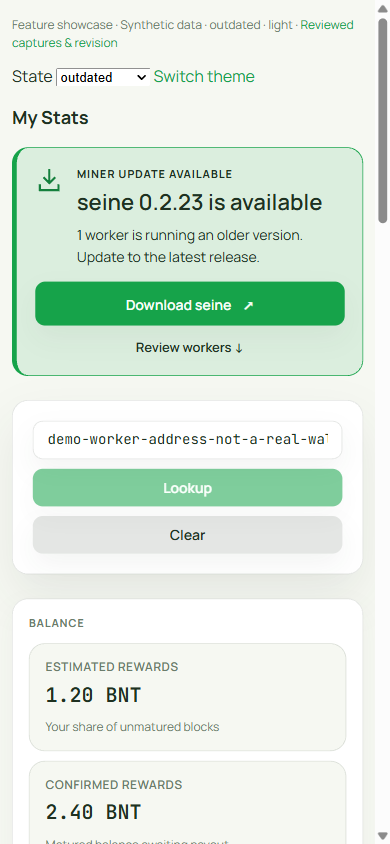
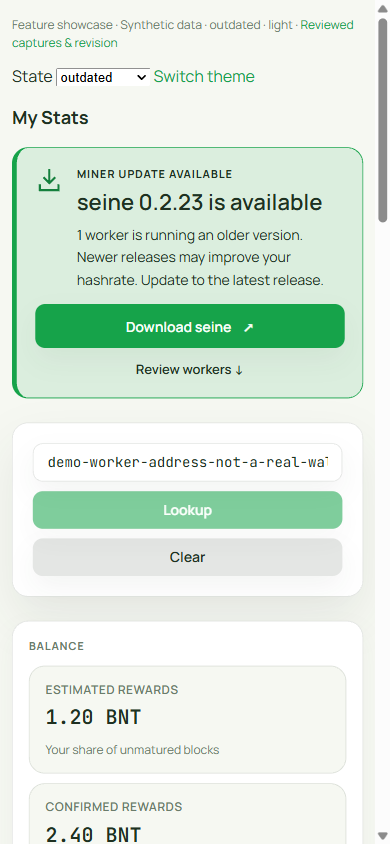
Replace worker update badges with version details and hashrate nudge

diff --git a/frontend/showcases/seine-update/captures.html b/frontend/showcases/seine-update/captures.html
@@ -1,8 +1,8 @@
 <!doctype html><html lang="en"><meta charset="utf-8"><meta name="viewport" content="width=device-width,initial-scale=1"><title>Seine update banner — reviewed captures</title>
 <style>body{font:16px/1.6 system-ui;margin:32px auto;padding:0 20px;max-width:1180px;background:#f6f8f2;color:#1f3121}h1{line-height:1.2}a{color:#15803d}code{overflow-wrap:anywhere}section{margin:40px 0}.pair{display:grid;grid-template-columns:minmax(0,3fr) minmax(0,1fr);gap:20px;align-items:start}img{width:100%;border:1px solid #cad8c8;border-radius:12px}pre{white-space:pre-wrap;background:#fff;padding:16px;border-radius:12px}@media(max-width:640px){.pair{grid-template-columns:1fr}.pair a:last-child{max-width:390px}}</style>
-<h1>Seine update banner</h1><p>A prominent notice at the top of My Stats, with the available release, affected worker counts, a download link and a shortcut to the worker list.</p>
+<h1>Seine update banner</h1><p>A prominent notice at the top of My Stats, with the available release, affected worker counts, a download link and a shortcut to the worker list. Newer releases may improve your hashrate. Old update badges are removed; the worker table shows reported miner versions.</p>
 <p>Real StatsPage rendered with synthetic API responses. Desktop: 1440 × 1000. Mobile: 390 × 844. Captured and visually reviewed October 25, 2026 (EDT) through the configured Windows Playwright MCP.</p>
-<p>Source: base <code>3ebfb91</code> plus the exact <a href="source-revision.json">source SHA-256 manifest</a>. The sample version is fixture data, not a release announcement.</p>
+<p>Source: base <code>bbdda90</code> plus the exact <a href="source-revision.json">source SHA-256 manifest</a>. The sample version is fixture data, not a release announcement.</p>
 <p>Build and all 3 frontend tests passed. Browser checks passed for visibility, counts, no horizontal overflow, download destination, keyboard focus, worker-list navigation and clearing the lookup. No application console errors in the final check. The banner has no independent loading, error or disabled state; those lookup states are shown below.</p>
 <details><summary>Run the interactive fixture from this revision</summary><pre>npm --prefix frontend ci
 npm --prefix frontend run dev -- --host 0.0.0.0 --port 5184

diff --git a/frontend/src/pages/StatsPage.tsx b/frontend/src/pages/StatsPage.tsx
@@ -7,7 +7,6 @@ import { HashrateChart } from '../components/HashrateChart';
 import { PayoutStatusBadge } from '../components/PayoutStatusBadge';
 import { RangeTabs } from '../components/RangeTabs';
 import { StatCard } from '../components/StatCard';
-import { WorkerVersionBadge } from '../components/WorkerVersionBadge';
 import { MinerUpdateBanner } from '../components/MinerUpdateBanner';
 import { LAST_MINER_LOOKUP_KEY } from '../lib/storage';
 import { formatCoins, formatCompactCoins, formatFee, formatPct, humanRate, ratioPct, timeAgo, timestampTitle, toUnixMs } from '../lib/format';
@@ -563,6 +562,7 @@ export function StatsPage({ api, liveTick, theme }: StatsPageProps) {
                   <thead>
                     <tr>
                       <th>Worker</th>
+                      <th>Miner Version</th>
                       <th>Hashrate</th>
                       <th>Accepted</th>
                       <th>Rejected</th>
@@ -571,17 +571,12 @@ export function StatsPage({ api, liveTick, theme }: StatsPageProps) {
                   </thead>
                   <tbody>
                     {!minerData.workers.length ? (
-                      <EmptyTableRow colSpan={5}>No workers</EmptyTableRow>
+                      <EmptyTableRow colSpan={6}>No workers</EmptyTableRow>
                     ) : (
                       minerData.workers.map((w) => (
                         <tr key={w.worker}>
-                          <td>
-                            {w.worker || 'default'}
-                            <WorkerVersionBadge
-                              status={w.version_status}
-                              latestVersion={minerData.latest_miner_version || ''}
-                            />
-                          </td>
+                          <td>{w.worker || 'default'}</td>
+                          <td className="mono">{w.miner_version?.trim() || 'Unknown'}</td>
                           <td>{humanRate(w.hashrate || 0)}</td>
                           <td>{w.accepted || 0}</td>
                           <td>{w.rejected || 0}</td>

diff --git a/frontend/src/components/MinerUpdateBanner.tsx b/frontend/src/components/MinerUpdateBanner.tsx
@@ -1,6 +1,6 @@
 import type { MinerResponse } from '../types';
 
-export const SEINE_RELEASES_URL = 'https://github.com/zpalmtree/seine/releases';
+const SEINE_RELEASES_URL = 'https://github.com/zpalmtree/seine/releases';
 
 export function MinerUpdateBanner({ miner }: { miner: MinerResponse | null }) {
   const version = miner?.latest_miner_version?.trim();
@@ -21,6 +21,7 @@ export function MinerUpdateBanner({ miner }: { miner: MinerResponse | null }) {
         <p>
           {outdated > 0 && `${outdated} ${outdated === 1 ? 'worker is' : 'workers are'} running an older version. `}
           {unknown > 0 && `${unknown} ${unknown === 1 ? 'worker has' : 'workers have'} an unknown version. `}
+          Newer releases may improve your hashrate.{' '}
           {outdated ? 'Update to the latest release.' : 'Check your workers against the latest release.'}
         </p>
       </div>

diff --git a/frontend/showcases/seine-update/showcase.tsx b/frontend/showcases/seine-update/showcase.tsx
@@ -24,7 +24,9 @@ const miner: MinerResponse = {
   latest_miner_version: state === 'no-version' ? '  ' : state === 'long-version' ? '0.2.23-preview.20261025-experimental' : '0.2.23',
   workers: statuses.map((version_status, i) => ({
     worker: `demo-rig-${i + 1}`, version_status, hashrate: 1250, accepted: 12840, rejected: 2,
-    last_share_at: null, miner_version: version_status === 'unknown' ? null : '0.2.22', backend: 'cuda',
+    last_share_at: null,
+    miner_version: version_status === 'unknown' ? null : version_status === 'current' ? '0.2.23' : '0.2.22',
+    backend: 'cuda',
   })),
   shares: [], payouts: [], verification_hold: null,
 };

diff --git a/frontend/src/styles.css b/frontend/src/styles.css
@@ -1000,11 +1000,6 @@ tr:hover td {
   color: var(--status-orphaned-text);
 }
 
-.worker-version-badge {
-  margin-left: 8px;
-  white-space: nowrap;
-}
-
 .miner-update-banner {
   display: flex;
   align-items: center;
@@ -1102,15 +1097,6 @@ tr:hover td {
   .miner-update-banner .btn {
     width: 100%;
   }
-}
-
-a.worker-version-badge {
-  color: var(--status-pending-text);
-}
-
-a.worker-version-badge:hover {
-  text-decoration: none;
-  border-color: var(--status-pending-text);
 }
 
 .pager {
